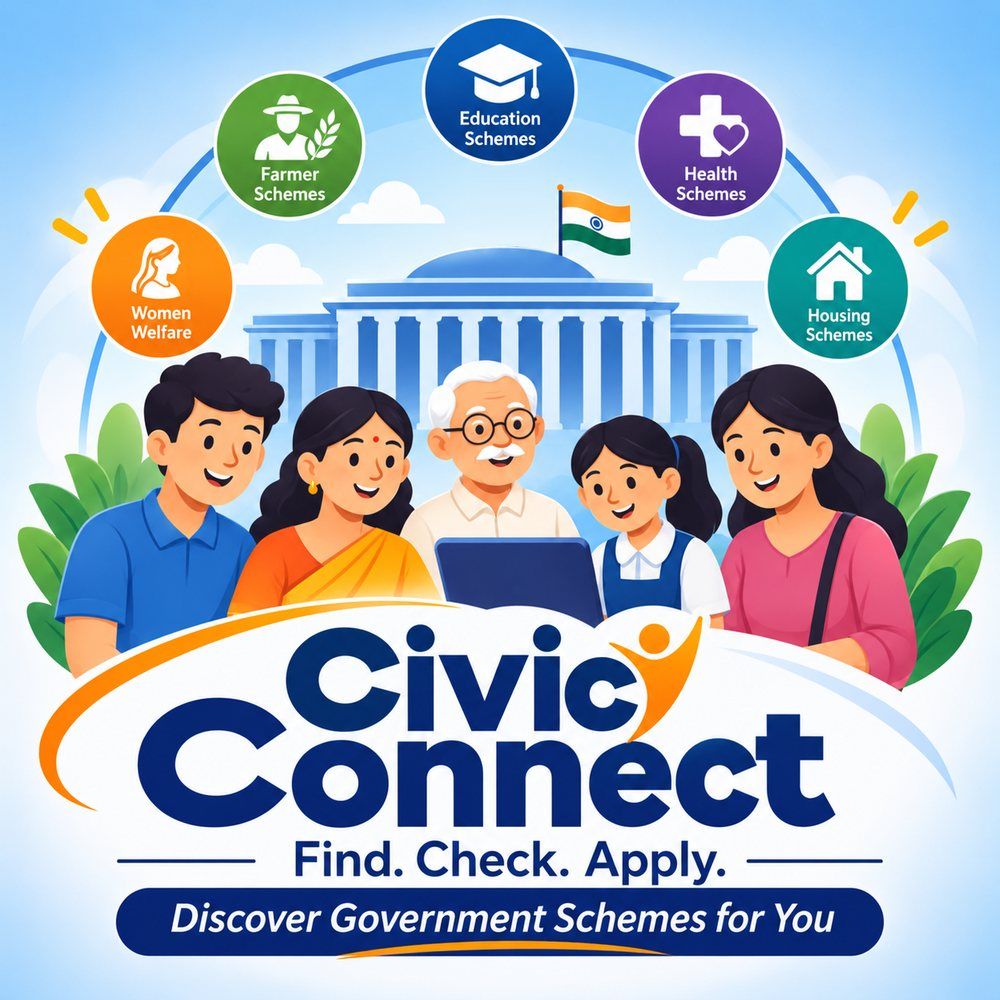
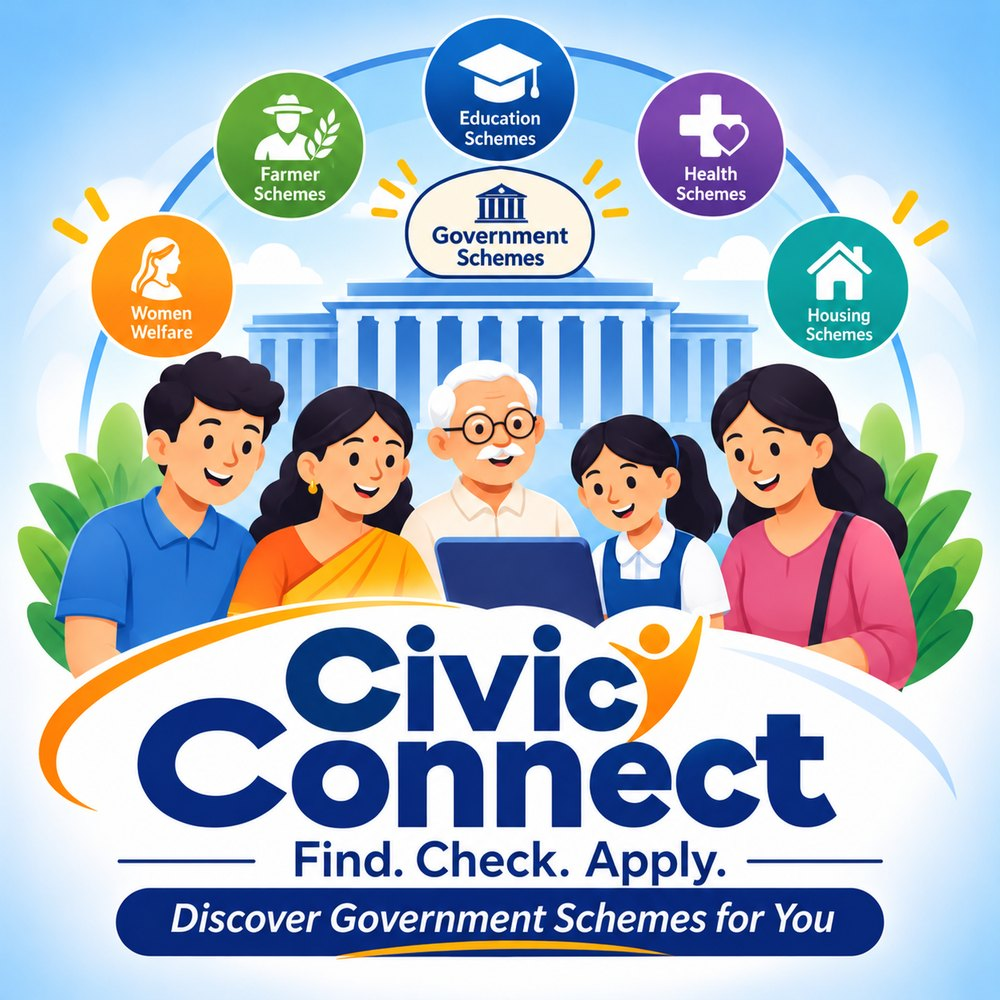
Use the new artwork, with wide white-padded versions
- Replace the login poster and home banner
- Add a 1200x630 version for link previews
- Correct "Haalth" to "Health" in the artwork

diff --git a/index.html b/index.html
@@ -5,7 +5,7 @@
   <meta name="viewport" content="width=device-width, initial-scale=1">
   <meta name="description" content="CivicConnect — bilingual guide to 15 selected government schemes.">
   <meta property="og:title" content="CivicConnect">
-  <meta property="og:image" content="https://civicconnect-theta-ten.vercel.app/assets/img/brand/poster.jpg">
+  <meta property="og:image" content="https://civicconnect-theta-ten.vercel.app/assets/img/brand/share.jpg">
   <title data-i18n-title="title.home">Home · CivicConnect</title>
   <link rel="icon" href="assets/img/brand/favicon.ico" sizes="32x32">
   <link rel="icon" href="assets/img/favicon.svg" type="image/svg+xml">

diff --git a/assets/js/pages/home.js b/assets/js/pages/home.js
@@ -1,7 +1,7 @@
 /* Home page */
 (function () {
   var U = CC.ui, T = CC.i18n.t, S = CC.store;
-  U.$('#hero-img').innerHTML = '<img class="hero-img" src="assets/img/brand/banner.jpg" width="1200" height="800" alt="CivicConnect: discover government schemes for you">';
+  U.$('#hero-img').innerHTML = '<img class="hero-img" src="assets/img/brand/banner.jpg" width="1500" height="1000" alt="CivicConnect: discover government schemes for you">';
   // Find My Schemes → profile (or register first)
   var u = S.currentUser();
   U.$('#find-btn').href = u ? (S.profile(u.id) ? 'matching.html#results' : 'matching.html') : 'login.html?next=matching.html';
